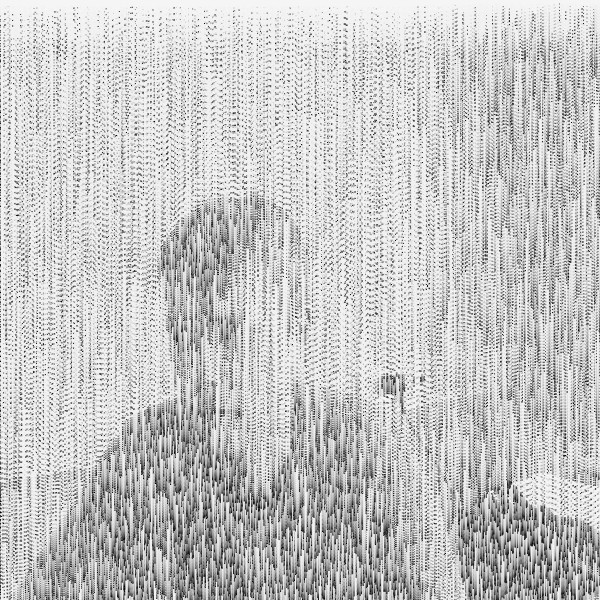
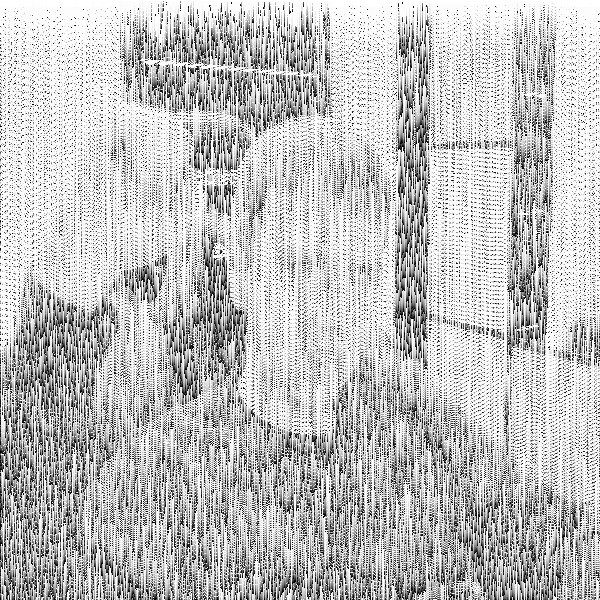
053_sands_cam boost perf

diff --git a/src/053_sands_cam.js b/src/053_sands_cam.js
@@ -21,7 +21,7 @@ const sketch = async ({ width, height }) => {
 
     const dots = new Collection();
 
-    for (let i = 0; i < 2000; i += 1) {
+    for (let i = 0; i < 5000; i += 1) {
         dots.add({
             x: random.range(0, width),
             y: random.range(0, height),
@@ -35,7 +35,7 @@ const sketch = async ({ width, height }) => {
         if (time - lastTime > 0.04) {
             lastTime = time;
 
-            for (let x = 0; x < width; x += random.range(1, 10)) {
+            for (let x = 0; x < width; x += random.range(1, 8)) {
                 dots.add({
                     x,
                     y: random.range(0, 50),
@@ -51,8 +51,8 @@ const sketch = async ({ width, height }) => {
         context.fillStyle = '#000';
 
         for (const dot of dots) {
-            const iy = Math.floor((camImageData.height * dot.y) / height);
-            const ix = Math.floor((camImageData.width * dot.x) / width);
+            const iy = Math.floor(camImageData.height * dot.y / height);
+            const ix = Math.floor(camImageData.width * dot.x / width);
 
             const pixelIdx = camImageData.width * 4 * iy + 4 * ix;
 
@@ -67,11 +67,20 @@ const sketch = async ({ width, height }) => {
             if (dot.y >= height) {
                 dots.remove(dot);
             }
-
-            if (dot.y > 0) {
-                context.fillRect(dot.x, dot.y, 1, 1);
-            }
         }
+
+        const imgData = context.getImageData(0, 0, width, height);
+        const data = imgData.data;
+
+        for (const dot of dots) {
+            const n = (~~dot.x + ~~dot.y * width) * 4;
+            data[n] = 0;
+            data[n + 1] = 0;
+            data[n + 2] = 0;
+            data[n + 3] = 255;
+        }
+
+        context.putImageData(imgData, 0, 0);
 
         stats.end();
     };
